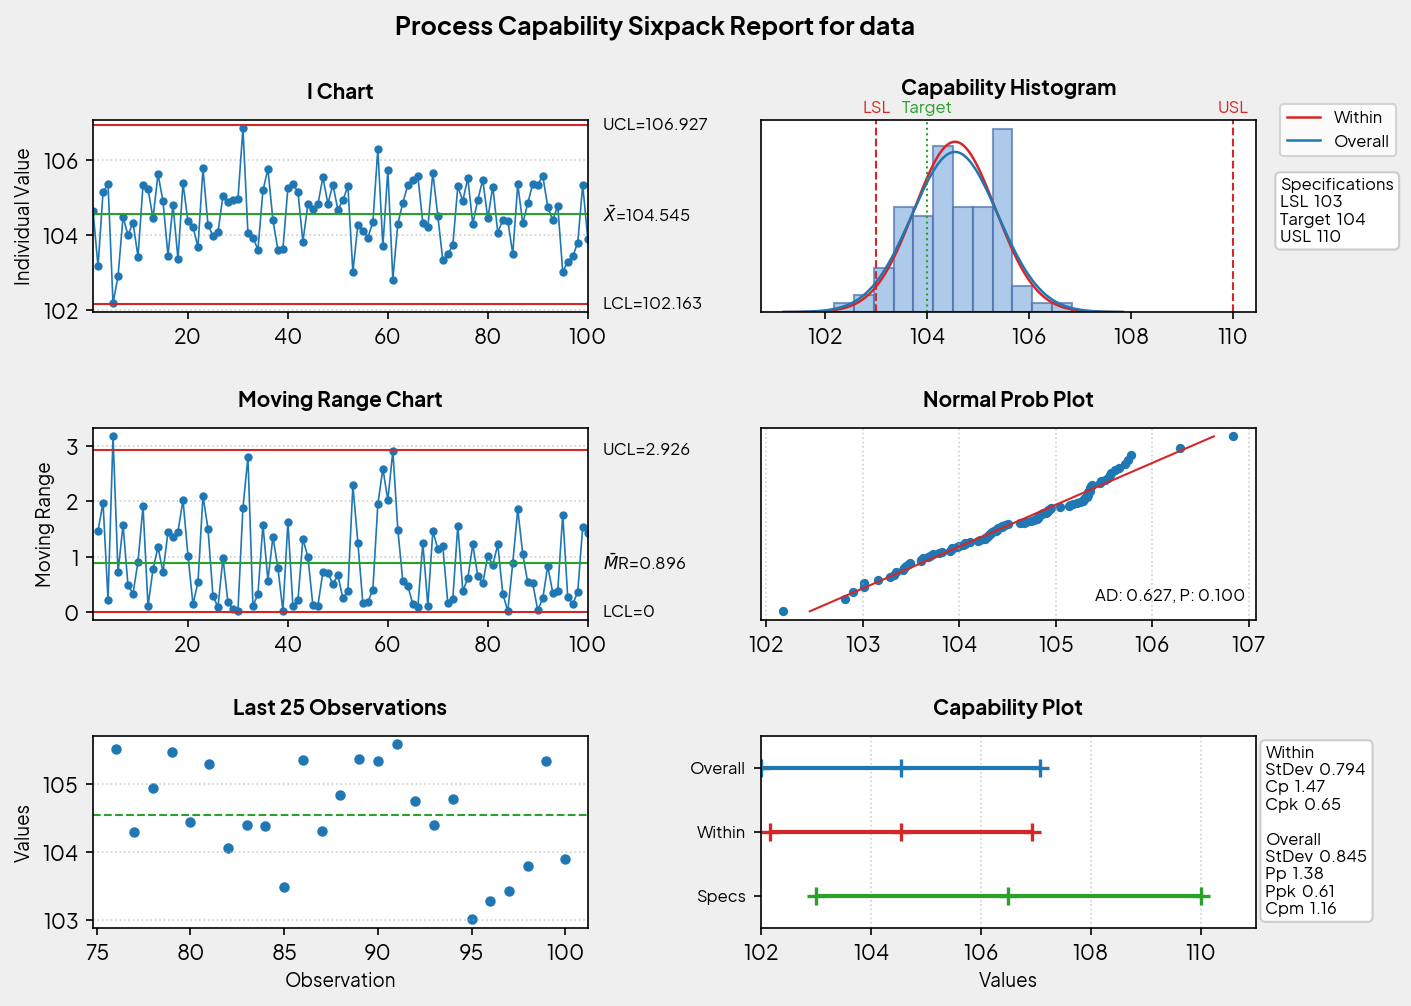
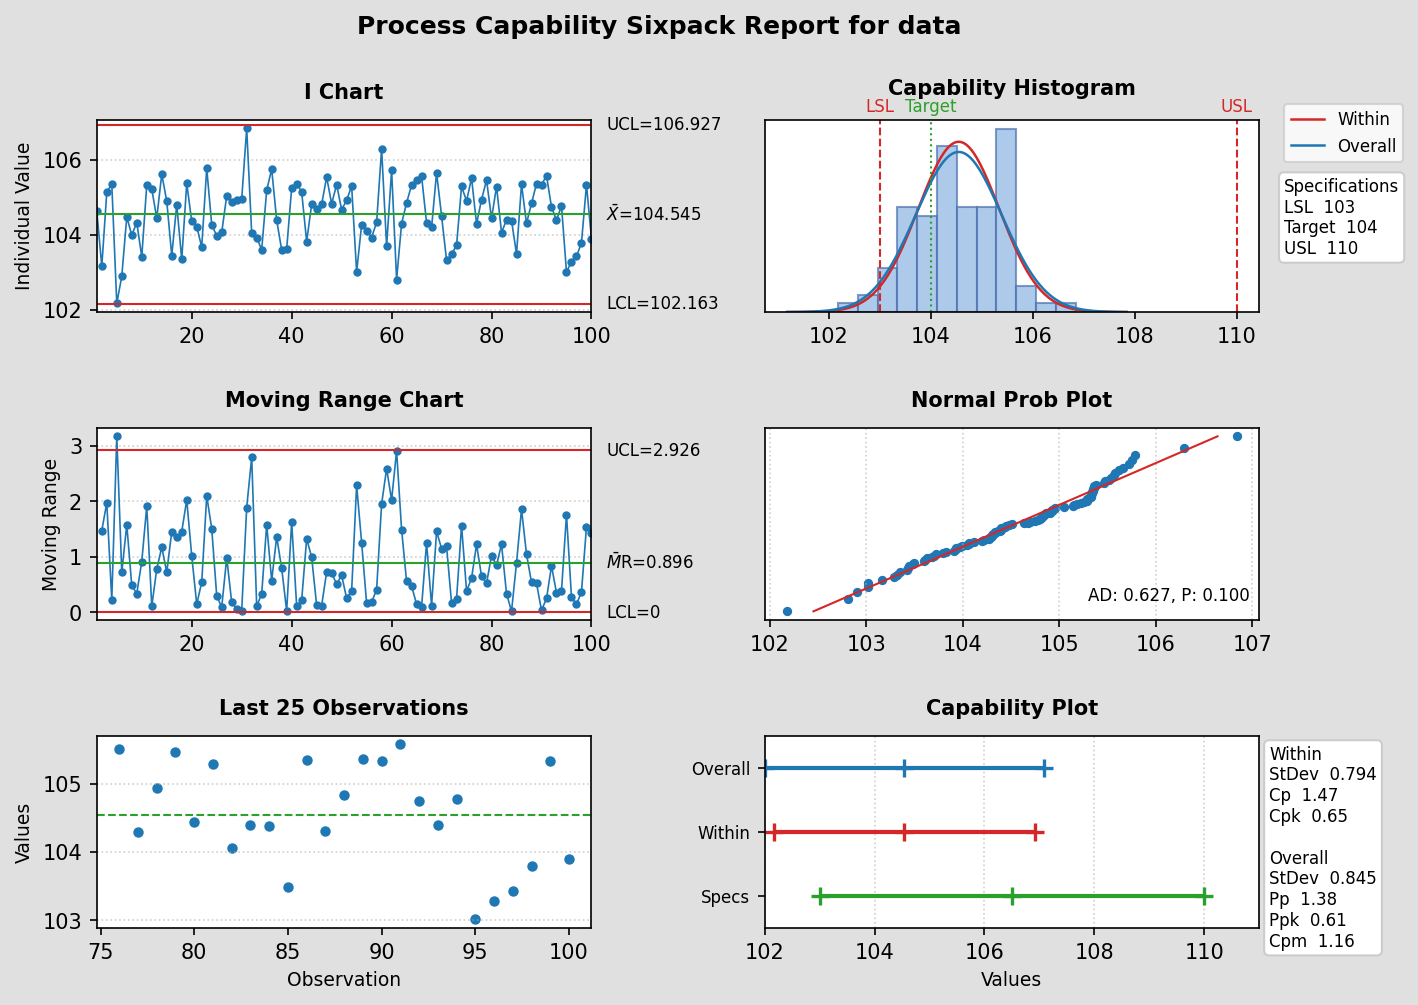
Darken sixpack background
Amp-Thread-ID: https://ampcode.com/threads/T-019c49cc-f41a-744c-afef-9edc0833ee73

diff --git a/src/sixpack_report.py b/src/sixpack_report.py
@@ -490,7 +490,7 @@ def generate_sixpack(
         fig_title.set_fontweight("bold")
     else:
         fig.suptitle(title, fontsize=12, y=0.98, fontweight="bold")
-    fig.patch.set_facecolor("#efefef")
+    fig.patch.set_facecolor("#e0e0e0")
     grid = fig.add_gridspec(3, 2, hspace=0.6, wspace=0.35)
 
     _plot_i_chart(fig.add_subplot(grid[0, 0]), values_array, stats)
